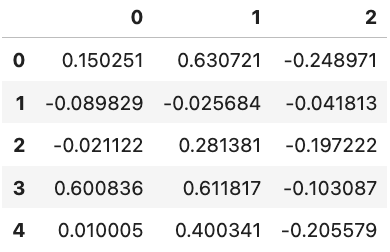
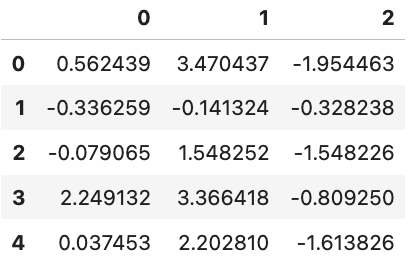
finished unsupervised methods

diff --git a/exampleSite/content/models/clustering.md b/exampleSite/content/models/clustering.md
@@ -7,13 +7,31 @@ math: true
 weight: 2
 ---
 
+## Overall Goal
+
+Use clustering on PCA-reduced social media metric data in order to discover clusters that coincide with Spotify streaming rank.
+
 ## Definition
 
-Clustering is an unsupervised machine learning technique that groups data points in a dataset into distinguishable clusters. In general, clustering algorithms work by comparing the distances of points to each other. Data points that are close to each other can form a cluster. Data points that are further apart form distinct clusters. There are numerous methods for clustering. In the following sections, KMeans, Hierarchical, and DBSCAN clustering will be compared, then applied to the 3D Kernel PCA dataset from the PCA section.
+Clustering is an unsupervised machine learning technique that groups data points in a dataset into distinguishable clusters. In general, clustering algorithms work by comparing the distances of points to each other with a selected distance metric. Data points that are close to each other can form a cluster. Data points that are further apart form distinct clusters. 
+
+Distance metrics are essential in clustering because they determine how similarity between data points is measured, directly influencing how clusters are formed. Algorithms like KMeans, Hierarchical Clustering, and DBSCAN rely on distance calculations to group similar points together. Common metrics include Euclidean distance, which measures straight-line proximity, and Manhattan distance, which sums absolute differences along each dimension. Cosine similarity is often used when direction matters more than magnitude, such as in text or high-dimensional data. The choice of metric affects cluster shape, density, and separation, making it crucial to select one that aligns with the data’s structure.
+
+![DistanceMetrics](/images/kmeans/DistanceMetrics.png)
+
+[Image source](https://medium.com/@jodancker/a-brief-introduction-to-distance-measures-ac89cbd2298)
+
+There are numerous methods for clustering. In the following sections, KMeans, Hierarchical, and DBSCAN clustering will be compared, then applied to the 3D Kernel PCA dataset from the PCA section.
 
 ## Comparison of Methods
 
+![ClusteringExamples](/images/kmeans/ClusteringExamples.png)
+
+[Image source](https://medium.com/@sina.nazeri/comparing-the-state-of-the-art-clustering-algorithms-1e65a08157a1)
+
 ### KMeans Clustering
+
+*Clustering via centroids and partitioning*
 
 **Steps:**
 1. Select number of clusters $k$ 
@@ -32,6 +50,8 @@ Clustering is an unsupervised machine learning technique that groups data points
 
 ### Hierarchical Clustering
 
+*Clustering via similarity and hierarchy*
+
 **Steps:**
 1. Start with each data point as its own cluster
 2. Compute the distance between all clusters (using a linkage method like single, complete, or average)
@@ -47,6 +67,8 @@ Clustering is an unsupervised machine learning technique that groups data points
 
 
 ### DBSCAN Clustering
+
+*Clustering via density*
 
 **Steps:**
 1. Select two parameters:
@@ -68,6 +90,8 @@ Clustering is an unsupervised machine learning technique that groups data points
 
 ### Data Preparation
 
+In the following section, KMeans is applied to the 3D Kernel PCA dataset from the PCA section. The labels `All Time Rank` and `All Time Rank Bin` are saved for comparison to the clustering results. Each principal component is a quantitative feature, so they can be used in KMeans. We normalize each then compute silhouette scores for increasing values of $k$. The $k$'s to be visualized are the highest three from the silhouette score plot ($k$=[2, 3, 4]). We use scikit-learn to perform KMeans.
+
 >[!NOTE]
 >Source code can be found here:\
 >[github.com/michael-van-vuuren/csci5612-workspace/models/unsupervised/KMeans.ipynb](https://github.com/michael-van-vuuren/csci5612-workspace/blob/main/models/unsupervised/KMeans.ipynb)
@@ -87,6 +111,8 @@ Clustering is an unsupervised machine learning technique that groups data points
 >For large & interactive visualizations, click the `{{< icon "newtab" >}} View interactive plot` buttons.
 
 #### KMeans Clusters for Selected k-values
+
+We can see from the KMeans scatterplots for different $k$ and the comparison scatterplots below that KMeans does a decent job at finding clusters that match up with our labels `All Time Rank` and `All Time Rank Bin`. For $k$=4, It appears that merging clusters 2 & 4 would coincide with low `All Time Rank Bin`, and merging clusters  1 & 3 would coincide with high `All Time Rank Bin`.
 
 {{< tabs items="Two Clusters (k=2),Three Clusters (k=3),Four Clusters (k=4)" >}}
   {{< tab >}}
@@ -126,6 +152,8 @@ Clustering is an unsupervised machine learning technique that groups data points
 
 ### Data Preparation
 
+In the following section, hierarchical clustering is applied to the 3D Kernel PCA dataset from the PCA section. Instead of applying hierarchical clustering to the entire dataset, around 1500 rows were randomly sampled from the dataset, because using all the rows was too performance intensive, and resulted in unappealing dendrograms. The labels `All Time Rank` and `All Time Rank Bin` are saved for comparison to the clustering results. Each principal component is a quantitative feature, so they can be used in hierarchical clustering. We normalize each then use a SciPy to create a linkage matrix and dendrogram.
+
 >[!NOTE]
 >Source code can be found here:\
 >[github.com/michael-van-vuuren/csci5612-workspace/models/unsupervised/Hierarchical.ipynb](https://github.com/michael-van-vuuren/csci5612-workspace/blob/main/models/unsupervised/Hierarchical.ipynb)
@@ -136,14 +164,18 @@ Clustering is an unsupervised machine learning technique that groups data points
 **Hierarchical Clustering-Ready Data:**
 ![HierarchicalClusteringReady](/images/kmeans/KMeansReady.png)
 
-![Dendrogram](/images/hierarchical/Dendrogram.png)
-
 ### Hierarchical Visualizations
 
 >[!TIP]
 >For large & interactive visualizations, click the `{{< icon "newtab" >}} View interactive plot` buttons.
 
 #### Hierarchical Clusters
+
+We can see from the dendrogram below with a threshold value of 0.5 that there is one large red group and some smaller separate groups. We can use scatterplots to visualize which groups map to which data points.
+
+![Dendrogram](/images/hierarchical/Dendrogram.png)
+
+We can see from the scatterplots below that hierarchical clustering does a good job at finding clusters that match up with our labels `All Time Rank` and `All Time Rank Bin`. It appears that merging the pink (red in the dendrogram) and gray (green in the dendrogram) clusters would coincide with low `All Time Rank Bin`, and merging the rest of the clusters would coincide with high `All Time Rank Bin`.
 
 {{< tabs items="Hierarchical Clustering (distance threshold=0.5)" >}}
   {{< tab >}}
@@ -167,6 +199,8 @@ Clustering is an unsupervised machine learning technique that groups data points
 
 ### Data Preparation
 
+In the following section, density based (DBSCAN) clustering is applied to the 3D Kernel PCA dataset from the PCA section. The labels `All Time Rank` and `All Time Rank Bin` are saved for comparison to the clustering results. Each principal component is a quantitative feature, so they can be used in density based clustering. We normalize each then use scikit-learn to perform DBSCAN.
+
 >[!NOTE]
 >Source code can be found here:\
 >[github.com/michael-van-vuuren/csci5612-workspace/models/unsupervised/DBSCAN.ipynb](https://github.com/michael-van-vuuren/csci5612-workspace/blob/main/models/unsupervised/DBSCAN.ipynb)
@@ -183,6 +217,8 @@ Clustering is an unsupervised machine learning technique that groups data points
 >For large & interactive visualizations, click the `{{< icon "newtab" >}} View interactive plot` buttons.
 
 #### DBSCAN Clusters
+
+DBSCAN was applied with a minimum sample size $m$ of 50, and epsilon values of $\epsilon$=[0.05, 0.10, 0.15]. The reason a high minimum sample size and low epsilons (low neighborhood radius) were used is because in our dataset, most of the songs with lower `All Time Rank` scores are grouped at a higher density tip, while most of the songs with higher `All Time Rank` scores are grouped with lower density. Therefore, we can use DBSCAN to identify the high density tip as a cluster, then use the noise as the other cluster to find clusters that match up with `All Time Rank Bin`. The results below show that this is quite effective, especially when $\epsilon$=0.10.
 
 {{< tabs items="DBSCAN (eps=0.05),DBSCAN (eps=0.10),DBSCAN (eps=0.15)" >}}
   {{< tab >}}
@@ -219,3 +255,9 @@ Clustering is an unsupervised machine learning technique that groups data points
 {{< /cards >}}
 
 ## Conclusions
+
+By applying clustering to PCA-reduced social media metric data, we aimed to discover patterns that align with Spotify streaming rank. The analysis compared KMeans, Hierarchical, and DBSCAN clustering to see which method best identified meaningful clusters.
+
+KMeans showed some alignment with Spotify’s All Time Rank by forming distinct groups, but required specifying the number of clusters in advance. Hierarchical clustering provided a clear dendrogram, revealing how tracks could be merged based on similarity, but was computationally expensive for the full dataset.
+
+DBSCAN proved to be the most effective method. Since DBSCAN identifies clusters based on density, it naturally aligned with the structure of the dataset: songs with high-density regions tended to have lower All Time Rank scores, indicating higher popularity, while those in lower-density regions had higher All Time Rank scores, representing less popular tracks. By adjusting the neighborhood radius ($\epsilon$), DBSCAN was able to isolate these patterns effectively, making it the best approach for uncovering clusters that reflect streaming rank.

diff --git a/exampleSite/content/models/arm.md b/exampleSite/content/models/arm.md
@@ -3,14 +3,67 @@ title: Association Rule Mining (ARM)
 type: docs
 prev: models/clustering
 next: models/
+math: true
 weight: 3
 ---
 
+## Overall Goal
+
+Use association rule mining on an augmented social media metric dataset in order to a rich ruleset that uncovers common patterns between social media and song popularity.
+
 ## Definition
 
-text
+Association rule mining, or ARM, is an unsupervised machine learning method for uncovering relationships that exist in a dataset. The most commonly taught example is using ARM to identify which items frequently purchased together at a grocery store. For example, buying ham might lead to an increased likelihood of buying cheese, and those two items together might increase the likelihood of buying sandwich bread. It is different from clustering because it is not only grouping like items together, it is also identying relationships that exist between them. 
+
+![ARMLogic](/images/arm/ARMLogic.png)
+
+[Image source](https://algobeans.com/wp-content/uploads/2016/04/association-rules-network-graph2.png)
+
+Additionally, ARM does not use record data like clustering, instead relying on transaction data. To transform a record dataset with quantitative features to a transactional dataset, quantitative values can be binned (e.g., low and high), and those binnings act as the items in a transaction (a row in the dataset). The values of categorical features naturally translate to transactional data (e.g., feature `Genre` has "Pop", then "Pop" becomes an item in the transaction).  
+
+In a rule generated by ARM, the cause of a rule is called an "antecedent", while the consequence of a rule is called a "consequent". Rules have the form $\text{A}\Rightarrow\text{B}$. Here, $\text{A}$ is an antecedent, while $\text{B}$ is a consequent. This rule suggests that in transactions where $\text{A}$ appears, $\text{B}$ is likely to appear as well. Note that an itemset is a superset of an item. It simply allows for multiple items to be used as antecedents and consequents for a given rule. Three key metrics are used in association rule mining:
+
+1. **Support:** The proportion of transactions with a particular itemset. It represents the most frequently occuring itemsets:
+
+$$\text{Support(A)} = \frac{\text{transactions with A}}{\text{total transactions}}$$
+
+2. **Confidence:** The probability that a transaction with one itemset also contains another itemset. Essentially the amount to which the rule can be depended on:
+
+$$\text{Confidence(A}\Rightarrow\text{B)} = \frac{\text{Support(A}\cup\text{B})}{\text{Support(B)}}$$
+
+3. **Lift:** The confidence of a rule $\text{A}\Rightarrow\text{B}$ over the prevalence of consequent $\text{B}$. It boils down to association strength between the antecedent and the consequent. 
+
+$$\text{Lift(A}\Rightarrow\text{B)} = \frac{\text{Confidence(A}\Rightarrow\text{B})}{\text{Support(B)}}$$
+
+The example image below shows how the output from ARM can be visualized as a network to see how a particular purchase in a grocery store results in other purchases. This example also demonstrates the power of ARM. With these rules, the grocery store could arrange items that are commonly purchased together nearby, which would increase the number of sales and increase the grocery store's profit. 
+
+![ARMExample](/images/arm/ARMExample.png)
+
+[Image source](https://medium.com/@utkarsh.kant/comparing-association-rule-mining-with-other-similar-methods-d964eaafad91)
+
+The most common ARM algorithm is the **Apriori Algorithm**. At a high level, the Apriori algorithm finds relationships between items in large datasets by identifying frequently occurring item combinations. It starts by scanning the data to find individual items that appear frequently enough, then gradually builds larger groups of frequently co-occurring items. At each stage, it prunes combinations that are too infrequent (appearing less than some minimum support), ensuring that only promising patterns are explored. This process continues until no more meaningful itemsets can be found. Finally, the algorithm yields rules, such as "people who buy ham and cheese often buy bread". The utility of each rule can be measured using confidence and lift. 
 
 ## Data Preparation
+
+Unlike clustering algorithms, ARM prefers categorical features. Since we want to use ARM on an augmented social media metric dataset to uncover common patterns between social media and song popularity, we will start with our base dataset instead of our PCA-reduced dataset. 
+
+The ARM-Ready dataset contains information about genres (which have been mapped from subgenres to more major genres, e.g., Hard Rock to Rock), whether a track is explicit or not, as well as augmented social media metrics. Originally, only the base social media features, such as `YouTube Views` and `TikTok Likes` were used, but these resulted in boring rulesets. To enrich the output produced by ARM, the following rules were added to the dataset:
+
+```python {filename=""}
+# TikTok
+df['TikTok Views per Post'] = df['TikTok Views'] / df['TikTok Posts'] #
+df['TikTok Impact'] = df['TikTok Views per Post'] / (df['YouTube Views'] + 1) #
+df['TikTok View-to-Like Ratio'] = df['TikTok Views'] / (df['TikTok Likes'] + 1) #
+df['TikTok Likes per Post'] = df['TikTok Likes'] / (df['TikTok Posts'] + 1) #
+
+# YouTube
+df['YouTube View-to-Like Ratio'] = df['YouTube Views'] / (df['YouTube Likes'] + 1) #
+
+# Shazam
+df['Shazam Conversion Rate'] = df['Shazam Counts'] / (df['YouTube Views'] + df['TikTok Views'] + 1) #
+```
+
+Finally, `Spotify Streams` was used so that rules between social media data and streaming data could be uncovered. To apply the Apriori algorithm in Python, the mlxtend library was used. The thresholds used were a minumum support of 0.15 and a minimum confidence of 0.5.
 
 >[!NOTE]
 >Source code can be found here:\
@@ -22,7 +75,20 @@ text
 **ARM-Ready Data:**
 ![ARMReady](/images/arm/ARMReady.png)
 
+>[!NOTE]
+>Although the Apriori Algorithm requires transaction data, mlxtend's implementation requires a one-hot encoded dataset. Functionally, they are equivalent.
+
 ## Results
+
+Below, the rules uncovered by Apriori are sorted according to support, confidence, and lift metrics. The top 15 rules according to each metric are displayed in a table and network graph. Each node in the graph represents an itemset, and each edge represents a rule. The nodes are colored according to whether they are an antecedent, a consequent, or both. Additionally, the number of displayed along each edge is the value of that rule according to the metric the rules were sorted by. 
+
+When ordered by support, we see rules that expose correlations in the data. For example, high `YouTube View-to-Like Ratio` correlates with high `Spotify Streams`. These rules are not that exciting.
+
+When ordered by confidence, we see many directional rules. For example, when `Genre` is Rap, the data suggests that `Explicit` is Yes. This means that Rap music is more likely to be explicit. We see other interesting rules like when `Spotify Streams` is high and `TikTok Impact` is high, `TikTok Likes per Post` is more likely to be high. 
+
+When ordered by support, we see a mixture of rules. For example, when a song has high spotify streams, but is not explicit and has a low number of likes per post on TikTok, its `TikTok Impact` is low. 
+
+By exploring these different rules, we can identify how social media influences song popularity, in addition to other patterns. 
 
 {{< tabs items="By Support,By Confidence,By Lift" >}}
   {{< tab >}}
@@ -61,3 +127,9 @@ text
 {{< /tabs >}}
 
 ## Conclusions
+
+By applying association rule mining to social media and streaming data, we uncovered key insights into song popularity. The analysis focused on identifying relationships between engagement metrics and overall success.  
+
+One of the most significant findings was that view-to-like ratios matter more than absolute counts—a high ratio indicates strong audience engagement, making it a critical factor in predicting popularity. Additionally, Shazam conversion rates emerged as a valuable metric, as users actively searching for a song often translate into increased streams. Lastly, genre plays a crucial role in social media performance, which in turn affects overall popularity; certain genres thrive on platforms like TikTok and YouTube, leading to viral success and higher streaming numbers.
+
+These insights highlight how different engagement metrics interact, offering a deeper understanding of the factors driving a track’s success. These rules are also useful to consider when deciding how to conduct supervised machine learning methods.

diff --git a/exampleSite/content/introduction.md b/exampleSite/content/introduction.md
@@ -5,14 +5,14 @@ type: introduction
 
 ## Topic
 
-Streaming platforms have reshaped how songs gain popularity and longevity. In the past, major record labels were a necessity for success. Nowadays, even small creators can achieve success due to recommendation algorithms and social media trends. Beyond streaming, social media platforms like TikTok have become powerful drivers of music discovery. Viral trends and challenges can propel a song to mainstream success, sometimes even before it gains traction on traditional streaming services. In 2024, 13 out of the 16 songs that reached No.1 on the U.S. Billboard Hot 100 were linked to TikTok trends ([Music Business Worldwide](https://www.musicbusinessworldwide.com/tiktok-reveals-its-top-songs-of-2024-says-that-13-of-16-no-1-hits-in-the-us-this-year-are-linked-to-trends-on-its-platform/)).
+Streaming platforms have fundamentally reshaped how songs gain popularity and sustain long-term success. In the past, major record labels played a dominant role in deciding which artists and songs would reach mainstream audiences. They controlled radio airplay, physical distribution, and promotional campaigns, making it difficult for independent artists to break through. However, in today’s digital landscape, even small creators can achieve widespread recognition due to streaming algorithms and social media trends. Music discovery has become more democratized, with platforms like Spotify, Apple Music, and YouTube allowing artists to release music directly to global audiences. Beyond streaming, social media has emerged as an equally powerful force in shaping music trends. TikTok, in particular, has become a crucial driver of viral music success, where songs can gain massive popularity through challenges, dance trends, and user-generated content. The influence of these platforms is undeniable—statistics show that social media trends directly impact chart performance. In 2024, 13 out of the 16 songs that reached No.1 on the U.S. Billboard Hot 100 were linked to TikTok trends ([Music Business Worldwide](https://www.musicbusinessworldwide.com/tiktok-reveals-its-top-songs-of-2024-says-that-13-of-16-no-1-hits-in-the-us-this-year-are-linked-to-trends-on-its-platform/)).
 
 ![23](images/23.png)
 *Paradigm shift in music distribution and consumption ([The Honest Broker](https://www.honest-broker.com/p/results-of-my-survey-who-deserves))*
 
-Since the rise of digital streaming, playlist inclusion on platforms like Spotify and Apple Music has become a critical factor in determining a song’s success. A song that gets added to a playlist is both appealing on first listen and after repeated listens. Therfore a song's inclusion in playlists signifies its long-term listening appeal. 
+Since the rise of digital streaming, playlist inclusion on platforms like Spotify and Apple Music has become a critical factor in determining a song’s success. A song that gets added to a playlist is both appealing on first listen and after repeated listens. Therefore a song's inclusion in playlists signifies its long-term listening appeal. The primary focus of this project is to predict the probability of a song being added to a playlist, using a dataset enriched with streaming statistics, social media engagement, and metadata from APIs like Spotify and MusicBrainz.
 
-The primary focus of this project is to predict the probability of a song being added to a playlist, using a dataset enriched with streaming statistics, social media engagement, and metadata from APIs like Spotify and MusicBrainz.
+To gain deeper insights into playlist inclusion, we will apply dimensionality reduction techniques such as PCA to uncover the most relevant features while preserving essential patterns in the data. Clustering methods will help identify natural groupings of songs based on social media and streaming metrics, revealing how different engagement patterns correlate with song success. Additionally, association rule mining (ARM) will be used to explore relationships between key factors influencing a song’s popularity, providing interpretable insights that can guide predictive modeling.
 
 Additional subtopics to be explored include:
 
@@ -23,7 +23,7 @@ Additional subtopics to be explored include:
 
 ### Why?
 
-A song’s ability to sustain engagement over time is crucial in today’s music industry. Playlist-worthy songs not only attract immediate attention but also maintain their appeal over multiple listens. Understanding what makes a song "playlist material" can help artists, record labels, and streaming platforms optimize their strategies for song promotion, curation, and discovery.
+A song’s ability to sustain engagement over time is crucial in today’s music industry. Playlist-worthy songs not only attract immediate attention but also maintain their appeal over multiple listens, contributing to long-term streaming success. Songs that remain in popular playlists tend to generate consistent streams, boosting an artist’s visibility and revenue. Understanding what makes a song “playlist material” can help artists, record labels, and streaming platforms optimize their strategies for song promotion, curation, and discovery. Streaming platforms rely on algorithms to curate playlists, making it essential to identify patterns that influence song selection. Viral success on platforms like TikTok can increase the chances of playlist inclusion, but sustained engagement requires more than initial hype. The ability to maintain listener interest over time often depends on repeatability, emotional connection, and adaptability to different listening contexts. Recognizing these factors allows stakeholders to craft more effective marketing and distribution strategies. 
 
 ### Who is affected?
 

diff --git a/exampleSite/content/models/pca.md b/exampleSite/content/models/pca.md
@@ -7,6 +7,10 @@ math: true
 weight: 1
 ---
 
+## Overall Goal
+
+Use PCA to reduce the dimensionality of the dataset so that unsupervised clustering models are more effective and easier to visualize.
+
 ## Definition
 
 PCA is a way to simplify a dataset while retaining its most important information. In a dataset, eigenvectors represent the directions of greatest variation, while each corresponding eigenvalue indicates how much variance that direction captures. The eigenvectors are sorted in descending order based on their eigenvalues, and the top $N$ eigenvectors are retained. The dataset is then projected onto the new space formed by these eigenvectors.
@@ -151,4 +155,4 @@ In the following section, Kernel PCA with a radial basis function (RBF) kernel i
 
 ## Conclusions
 
-The 3D Kernel PCA dataset has a high concentration of low ranked songs on one "tip" of the data, and a high concentration of high ranked songs away from that tip. This makes it easier to create cluster boundries. Therefore, we will use it for the clustering performed in the following section. 
+After performing PCA, we found that only three dimensions were needed to retain 95% of the variance of the original dataset. We also saw how using Kernel PCA helped separate the data points more than regular PCA. The 3D Kernel PCA dataset has a high concentration of low ranked songs on one "tip" of the data, and a high concentration of high ranked songs away from that tip. This makes it easier to create cluster boundries. Therefore, we will use it for the clustering performed in the following section. 
